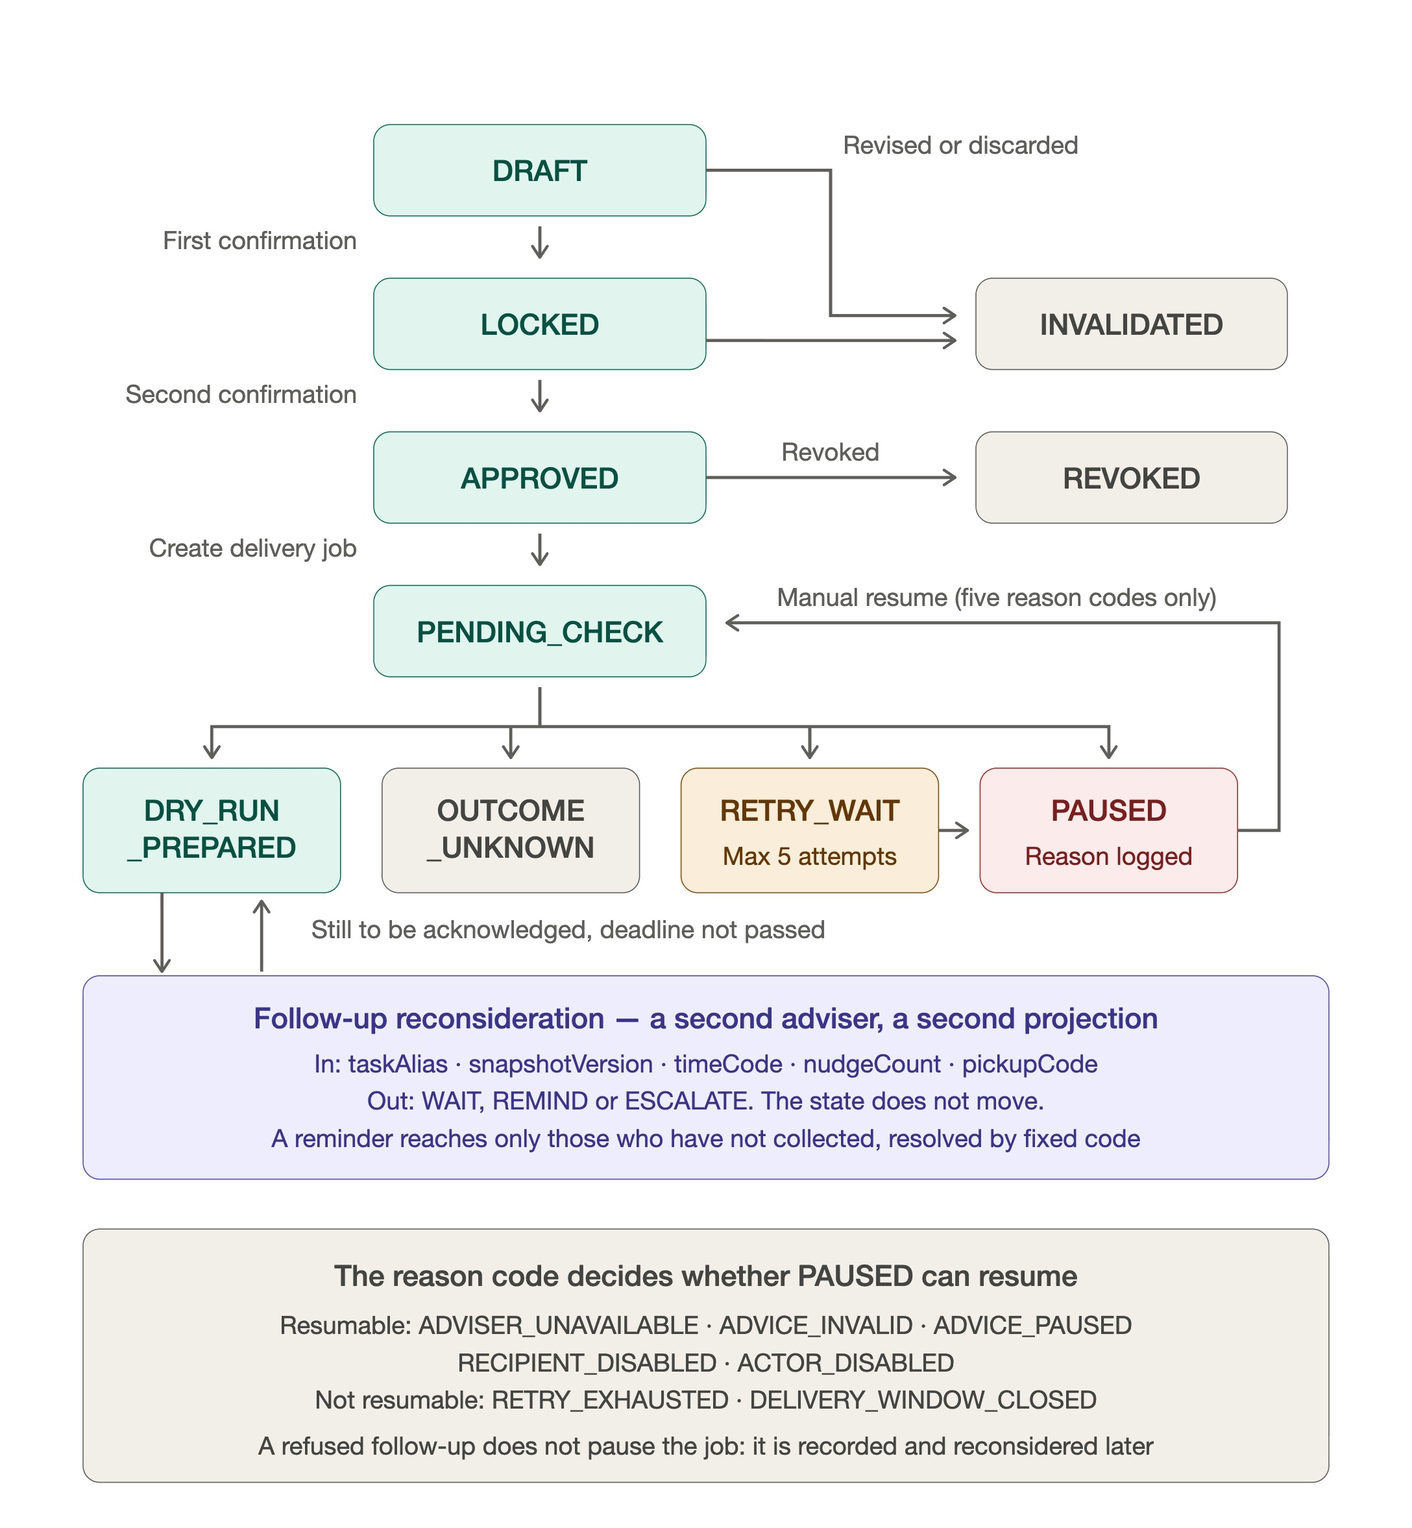
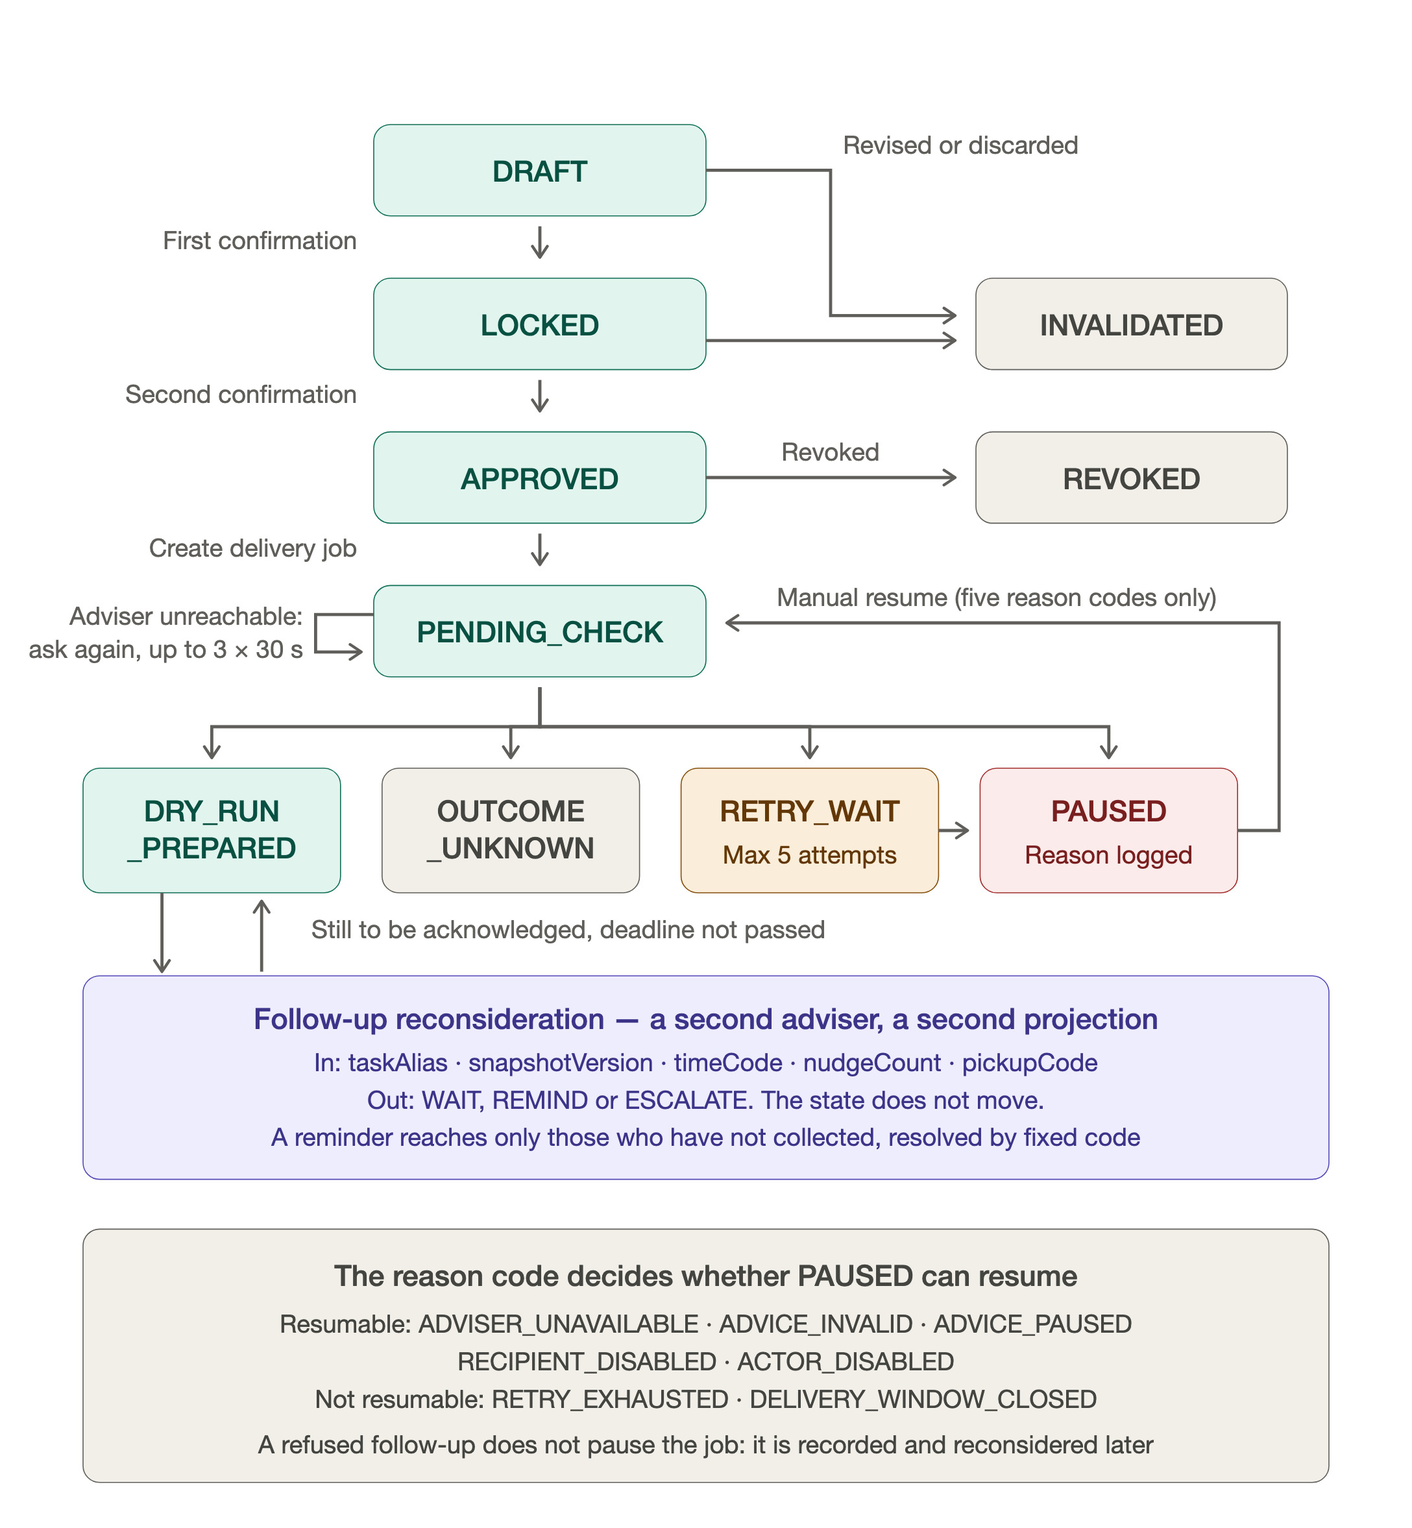
fix: second review pass on adviser retries, trail and recording screens
- follow-up failures back off to the halving cadence after three quick retries
- route and follow-up keep separate halves of the evidence trail
- failures before any request left are not retried; revoke clears a pending retry
- sender sees 'asking again n/3'; a recipient not on the delivery sees no receipt
  error on sign-in; a lapsed hosted sign-in is labelled as such
- preflight checks each page serves its own script; state diagram shows the retry loop

diff --git a/file-worker.js b/file-worker.js
@@ -24,13 +24,19 @@ function deliveryDeadlineFor(snapshot) {
 // untrusted model output, so its content is never stored; only this code's own fixed reason is.
 const TRAIL_LIMIT = 20;
 // An adviser that could not be reached decided nothing, so routing asks again after a pause rather
-// than stopping for a person at the first timeout. The job stays PENDING_CHECK: the adviser's policy
-// only proposes a route for that state. After the last retry it pauses and a person can resume it.
+// than stopping for a person at the first timeout. Only a first routing check (PENDING_CHECK) is
+// retried, and it stays PENDING_CHECK: the adviser's policy only proposes a route for that state; a
+// delivery already waiting on a retry (RETRY_WAIT) pauses as before. After the last retry it pauses
+// and a person can resume it.
 const ADVICE_RETRY_LIMIT = 3;
 const ADVICE_RETRY_MS = 30000;
+const FOLLOWUP_QUICK_RETRIES = 3;
 // Which outlet produced an answer or a failure. A symbol, so it is never read as an answer field
 // and never reaches the validator's key check; only these fixed labels are stored.
 export const ADVICE_SOURCE = Symbol('adviceSource');
+// Set on a failure that happened before any request left (outlet disabled or misconfigured,
+// metadata refused). Asking again cannot change the answer, so it is not retried.
+export const ADVICE_NO_RETRY = Symbol('adviceNoRetry');
 const ADVICE_SOURCES = new Set(['nebius_token_factory', 'local_openai_compatible', 'synthetic_fixture']);
 function recordAdvice(job, kind, input, outcome, now, source) {
   const entry = { kind, input: structuredClone(input), at: new Date(now).toISOString(),
@@ -39,7 +45,12 @@ function recordAdvice(job, kind, input, outcome, now, source) {
   else entry.refusal = { reasonCode: outcome.reasonCode,
     detail: outcome.detail === undefined ? null
       : /^[A-Za-z0-9 _:.-]{1,80}$/.test(String(outcome.detail)) ? String(outcome.detail) : 'UNCLASSIFIED' };
-  job.adviceTrail = [...(job.adviceTrail || []), entry].slice(-TRAIL_LIMIT);
+  // Each kind keeps its own last TRAIL_LIMIT / 2 entries, so a run of follow-up calls cannot push
+  // the routing evidence out of the trail.
+  const trail = [...(job.adviceTrail || []), entry];
+  const keep = new Set(['route', 'followup'].flatMap(name =>
+    trail.filter(item => item.kind === name).slice(-TRAIL_LIMIT / 2)));
+  job.adviceTrail = trail.filter(item => keep.has(item));
 }
 
 export async function advanceFileJobs(original, config, now = Date.now(), advise = syntheticFileAdvice, reloadConfig = async () => config) {
@@ -53,6 +64,7 @@ export async function advanceFileJobs(original, config, now = Date.now(), advise
     if (job.nextAdviceAt && Date.parse(job.nextAdviceAt) > now) continue;
     const previousState = job.status;
     let rejection = 'AUTHORIZATION_INVALID';
+    let retryable = true;
     try {
       let grant = activeGrant(config, task.grantId);
       rejection = 'ACTOR_DISABLED';
@@ -71,6 +83,7 @@ export async function advanceFileJobs(original, config, now = Date.now(), advise
         // An adviser that answered with something the validator refused is invalid advice, not an
         // unavailable adviser; the audit reason should say which one happened.
         if (error?.adviceRejected) rejection = 'ADVICE_INVALID';
+        if (error?.[ADVICE_NO_RETRY]) retryable = false;
         // Only the validator's own refusal text is kept; any other failure may carry foreign text.
         recordAdvice(job, 'route', metadata, { reasonCode: rejection, detail: error?.adviceRejected ? error.message : undefined }, now,
           error?.[ADVICE_SOURCE]);
@@ -120,10 +133,11 @@ export async function advanceFileJobs(original, config, now = Date.now(), advise
           preparedAt: new Date(now).toISOString(), sendsEmail: false };
       }
     } catch {
-      if (rejection === 'ADVISER_UNAVAILABLE' && job.status === 'PENDING_CHECK' &&
+      if (rejection === 'ADVISER_UNAVAILABLE' && retryable && job.status === 'PENDING_CHECK' &&
           (job.adviceRetries || 0) < ADVICE_RETRY_LIMIT) {
         job.adviceRetries = (job.adviceRetries || 0) + 1;
-        job.nextAdviceAt = new Date(now + ADVICE_RETRY_MS).toISOString();
+        // Measured from when the attempt ended, so a slow timeout does not shorten the pause.
+        job.nextAdviceAt = new Date(now + Math.max(0, Date.now() - startedAt) + ADVICE_RETRY_MS).toISOString();
         job.reasonCode = 'ADVISER_UNAVAILABLE';
       } else {
         delete job.nextAdviceAt;
@@ -263,12 +277,19 @@ export async function advanceFollowups(original, config, now = Date.now(), advis
       const span = Number.isFinite(approvedAt) && deadline > approvedAt ? deadline - approvedAt : 0;
       const step = span > 0 ? Math.max(Math.ceil((deadline - now) / 2), Math.ceil(span / 8)) : deadline - now;
       job.nextFollowupAt = new Date(Math.min(now + Math.max(step, 1), deadline)).toISOString();
+      delete job.followupFailures;
     } catch {
       action = null;
       job.followupPausedBy = rejection;
-      // A refusal must not become a hot loop against a failing dependency; it waits out a bucket
-      // like any other outcome.
-      job.nextFollowupAt = new Date(now + 60000).toISOString();
+      // A refusal must not become a hot loop against a failing dependency. The first three wait a
+      // minute each; after that the next try moves to the middle of what is left, the same halving
+      // the normal cadence uses, so a dependency that stays down costs a handful of calls rather
+      // than one a minute until the deadline.
+      job.followupFailures = (job.followupFailures || 0) + 1;
+      const deadline = Date.parse(candidate.content.deliveryDeadline);
+      const wait = job.followupFailures <= FOLLOWUP_QUICK_RETRIES || !Number.isFinite(deadline) ? 60000
+        : Math.max(60000, Math.ceil((deadline - now) / 2));
+      job.nextFollowupAt = new Date(now + wait).toISOString();
     }
     job.revision = (job.revision || 0) + 1;
     job.updatedAt = new Date(now).toISOString();

diff --git a/public/decode.js b/public/decode.js
@@ -32,7 +32,7 @@ function changed() {
   clearVerification();
   clearTimeout(refreshTimer);
   setText(status, 'No decode attempt yet.');
-  refreshTimer = setTimeout(() => { void restoreReceipt(); }, 250);
+  refreshTimer = setTimeout(() => { void restoreReceipt({ automatic: true }); }, 250);
 }
 window.addEventListener('authenticationchange', changed);
 taskId.addEventListener('input', changed);
@@ -73,7 +73,7 @@ async function flushReports(target) {
     if (verifiedDelivery === target) { retryReceipt.disabled = false; setText(status, 'Download requested; receipt unconfirmed'); }
   }
 }
-async function restoreReceipt() {
+async function restoreReceipt({ automatic = false } = {}) {
   if (button.disabled || receiptBusy || verifiedDelivery?.pending?.length) return;
   const id = taskId.value.trim(), number = Number(version.value), generation = identityGeneration;
   if (!/^[a-f0-9-]{36}$/.test(id) || !Number.isSafeInteger(number) || number < 1 || !document.querySelector('#accessToken').value.trim()) return;
@@ -83,6 +83,9 @@ async function restoreReceipt() {
       headers: { 'content-type': 'application/json' }, body: JSON.stringify({ version: number }) });
     const body = await response.json();
     if (generation !== identityGeneration || button.disabled || receiptBusy || verifiedDelivery?.pending?.length) return;
+    // The automatic look-up on sign-in stays quiet for someone this delivery was not approved for:
+    // the refusal belongs to their download attempt, where it is shown and logged as ACCESS DENIED.
+    if (!response.ok && automatic && response.status === 403) return;
     if (!response.ok) throw Error('Receipt status unavailable');
     if (body.acknowledged) {
       clearVerification();
@@ -95,7 +98,7 @@ async function restoreReceipt() {
   } catch { if (generation === identityGeneration) setText(status, 'Receipt status unavailable'); }
   finally { refreshReceipt.disabled = false; }
 }
-refreshReceipt.addEventListener('click', restoreReceipt);
+refreshReceipt.addEventListener('click', () => restoreReceipt());
 retryReceipt.addEventListener('click', () => { if (verifiedDelivery) void flushReports(verifiedDelivery); });
 acknowledge.addEventListener('click', async () => {
   const verified = verifiedDelivery;

diff --git a/server.js b/server.js
@@ -16,7 +16,7 @@ import { resumeFileTask, resumableReasons } from './task-operations.js';
 import { resolvePrivateRoute } from './private-mapping.js';
 import { packetCommitment } from './public/file-envelope.js';
 import { openLocalKeyVault } from './local-key-vault.js';
-import { advanceFileJobs, advanceFollowups, ADVICE_SOURCE } from './file-worker.js';
+import { advanceFileJobs, advanceFollowups, ADVICE_SOURCE, ADVICE_NO_RETRY } from './file-worker.js';
 import { fileRoutingMetadata } from './file-routing.js';
 import { taskEvidence } from './task-evidence.js';
 import { requestFileAdvice } from './file-adviser.js';
@@ -154,6 +154,7 @@ function senderTask(task) {
     revokedAt: snapshot.revokedAt
   })), jobs: task.jobs.map(job => ({ version: job.version, status: job.status, attempts: job.attempts,
     revision: job.revision || 0, reasonCode: job.reasonCode || null, updatedAt: job.updatedAt || null,
+    adviceRetries: job.adviceRetries || 0,
     canRequestResume: Boolean(task.file && job.status === 'PAUSED' && resumableReasons.has(job.reasonCode)),
     ...(task.file ? { receiptSummary: receiptSummary(task, job.version) } : {}) })) };
 }
@@ -1634,8 +1635,9 @@ async function fileAdviser(metadata, kind = 'route') {
     console.error(`ERROR adviser ${kind} ${provider} ${model} ${Math.round(performance.now() - started)}ms ${error.message}`);
     // Only a failure after a request was sent names the outlet; a call refused before any request
     // (outlet disabled, misconfigured, metadata rejected) never reached a model.
-    if (error && typeof error === 'object' && !ADVISER_PRE_REQUEST_FAILURES.has(error.message)) {
-      error[ADVICE_SOURCE] = provider === 'nebius' ? 'nebius_token_factory' : provider;
+    if (error && typeof error === 'object') {
+      if (ADVISER_PRE_REQUEST_FAILURES.has(error.message)) error[ADVICE_NO_RETRY] = true;
+      else error[ADVICE_SOURCE] = provider === 'nebius' ? 'nebius_token_factory' : provider;
     }
     throw error;
   }

diff --git a/public/app.js b/public/app.js
@@ -100,7 +100,10 @@ async function trackDelivery(id, version) {
       const job = body.task.jobs.find(item => item.version === version);
       if (!job) throw new Error('Delivery status unavailable');
       setJson(result, { taskId: id, version, status: job.status, attempts: job.attempts || 0 });
-      setText(deliveryStatus, () => t(job.status) + (job.reasonCode ? ' | ' + t(job.reasonCode) : ''));
+      // While routing waits to ask an unreachable adviser again, say so and how far along it is.
+      const retrying = job.status === 'PENDING_CHECK' && job.reasonCode === 'ADVISER_UNAVAILABLE' && job.adviceRetries > 0;
+      setText(deliveryStatus, () => retrying ? `${t('Adviser not answering; asking again')} ${job.adviceRetries}/3`
+        : t(job.status) + (job.reasonCode ? ' | ' + t(job.reasonCode) : ''));
       if (job.receiptSummary) {
         const summary = job.receiptSummary;
         setText(receiptView, () => `${t('Recipients')}: ${summary.recipientCount} | ${t('Key recipients')}: ${summary.keyRecipientCount} | ${t('Client download reports')}: ${summary.downloadReportCount} | ${t('Acknowledged recipients')}: ${summary.acknowledgedCount || 0} | ${t(summary.downloadWindowState || '')} | ${t(summary.receiptState || '')} | ${t(summary.deliveryState || '')} | ${t('Not proof of reading')}`);

diff --git a/public/auth.js b/public/auth.js
@@ -71,7 +71,10 @@ window.addEventListener('authenticationchange', () => {
     let result = null;
     try {
       const response = await authenticatedFetch('/api/whoami');
-      result = response.ok ? await response.json() : { denied: response.status === 401 };
+      // The hosted sign-in answers 401 too once its session lapses; that is not a verdict on the token.
+      const body = response.ok ? await response.json() : await response.json().catch(() => ({}));
+      result = response.ok ? body : body.error === 'Demo sign-in required' ? { gate: true }
+        : { denied: response.status === 401 };
     } catch { result = null; }
     if (current !== identityCheck) return;
     identity.hidden = false;
@@ -80,7 +83,8 @@ window.addEventListener('authenticationchange', () => {
       setText(identity, () => `${t('IDENTITY VERIFIED')} · ${t(roles[result.kind] || 'Unknown role')}`);
     } else {
       identity.className = 'identity-badge rejected';
-      setText(identity, result?.denied ? 'IDENTITY NOT VERIFIED' : 'Identity check unavailable');
+      setText(identity, result?.gate ? 'Demo sign-in expired; reload the page to sign in again'
+        : result?.denied ? 'IDENTITY NOT VERIFIED' : 'Identity check unavailable');
     }
   }, 250);
 });

diff --git a/public/i18n.js b/public/i18n.js
@@ -172,7 +172,7 @@ export const labels = {
   'Local model outlet configured; successful model call not verified': '已設定本機模型出口；尚未驗證成功呼叫',
   'Token Factory budget spent; local simulation, no real model call': 'Token Factory 預算已用完；本機模擬，未呼叫真實模型',
   'No model is called in this mode': '此模式不呼叫模型',
-  'Request failed': '請求未完成', 'Invalid receipt response': '回執回應格式不符',
+  'Request failed': '請求未完成', INVALID_FILE_ENVELOPE: '檔案封裝格式不符', 'Adviser not answering; asking again': '顧問模型暫未回應，稍後自動再問', 'Demo sign-in expired; reload the page to sign in again': '評審登入已逾時，請重新整理頁面再登入', 'Invalid receipt response': '回執回應格式不符',
   'IDENTITY VERIFIED': '身分已驗證', 'IDENTITY NOT VERIFIED': '身分未通過驗證', 'Identity check unavailable': '暫時無法確認身分',
   'Sender': '發文者', 'Recipient': '收件人', 'Coordinator': '協調者', 'Administrator': '管理員', 'Unknown role': '未知角色',
   'ACCESS APPROVED': '存取已核准', 'ACCESS DENIED': '存取被拒',

diff --git a/file-adviser.js b/file-adviser.js
@@ -84,7 +84,7 @@ export const ADVISER_PROVIDERS = {
     // off: 165 to 811 reasoning tokens and 7 to 27 seconds. `reasoning_effort: 'none'` is what this runtime honours (0 reasoning
     // tokens); `chat_template_kwargs` and a /no_think prompt still do nothing. Without reasoning,
     // temperature 1 let the 4B pick a reason the lookup table rules out in 3 of 18 calls, which the
-    // validator refused; greedy decoding gave 30 of 30 accepted at 2.4 to 2.6 seconds.
+    // validator refused; greedy decoding gave 30 of 30 accepted at 2.3 to 2.6 seconds.
     shape: (metadata, kind) => ({
       response_format: { type: 'json_schema', json_schema: { name: 'adviser_output', strict: true, schema: kind.schema } },
       reasoning_effort: 'none',

diff --git a/snapshot-lifecycle.js b/snapshot-lifecycle.js
@@ -114,7 +114,15 @@ export function revokeSnapshot(original, actor, number, now = Date.now()) {
   const snapshot = version(task, number);
   snapshot.revokedAt ||= new Date(now).toISOString();
   snapshot.submissionHash = null;
-  for (const job of task.jobs) if (job.version === number) job.status = 'REVOKED';
+  for (const job of task.jobs) {
+    if (job.version !== number) continue;
+    job.status = 'REVOKED';
+    // A pending adviser retry ends with the revocation; leaving it would label a revoked delivery
+    // as waiting on the adviser.
+    delete job.nextAdviceAt;
+    delete job.adviceRetries;
+    if (job.reasonCode === 'ADVISER_UNAVAILABLE') job.reasonCode = null;
+  }
   return task;
 }
 

diff --git a/docs/agent/security-gate-summary.md b/docs/agent/security-gate-summary.md
@@ -55,7 +55,7 @@ No tests, canaries or scanner rules were removed to reduce counts. Genuine prote
 
 ## Functional Evidence
 
-The corrected clean candidate passed npm run check and all npm tests (49 at the time of that candidate; 114 on 2026-09-25, thirty consecutive runs, after the loopback outlet, the 2026-09-18 regression locks, the delivery follow-up contract, the judge sign-in, the spending cap, the hosted lock fix, the refused-advice classification, the evidence chain, the local reasoning switch and the 2026-09-25 review fixes) using fresh temporary stores, with no provider calls or mail. The earlier missing-module failure is preserved in private history. Separate Chromium acceptance passed CSV, procurement DOCX and audit PDF flows: sender/recipient credential import, department/subset selection, private mapping, double confirmation, unauthorized recipient denial, exact-byte download and acknowledgement. Administrator mutation/rotation and desktop/mobile checks also passed. Synthetic fixtures were regenerated from shipped source; external browser requests were blocked.
+The corrected clean candidate passed npm run check and all npm tests (49 at the time of that candidate; 115 on 2026-09-25, thirty consecutive runs, after the loopback outlet, the 2026-09-18 regression locks, the delivery follow-up contract, the judge sign-in, the spending cap, the hosted lock fix, the refused-advice classification, the evidence chain, the local reasoning switch and the 2026-09-25 review fixes) using fresh temporary stores, with no provider calls or mail. The earlier missing-module failure is preserved in private history. Separate Chromium acceptance passed CSV, procurement DOCX and audit PDF flows: sender/recipient credential import, department/subset selection, private mapping, double confirmation, unauthorized recipient denial, exact-byte download and acknowledgement. Administrator mutation/rotation and desktop/mobile checks also passed. Synthetic fixtures were regenerated from shipped source; external browser requests were blocked.
 
 ## Publication Boundary
 

diff --git a/README.md b/README.md
@@ -137,7 +137,7 @@ into `reasoning_content` while `content` is left empty. A client reading only `c
 empty success. None of these results prove superiority to deterministic routing, general injection
 resistance, or compatibility with an untested local runtime.
 
-Version 2026-09-25. Test evidence at this revision: 114 of 114, thirty consecutive runs.
+Version 2026-09-25. Test evidence at this revision: 115 of 115, thirty consecutive runs.
 
 ## Architecture
 
@@ -160,6 +160,8 @@ exchange, the decryption, and the reporting in between.
 **What a task can do next.** Ten states and the reason codes that decide whether a paused job may
 resume. `RETRY_EXHAUSTED` and `DELIVERY_WINDOW_CLOSED` both stop a job, for different reasons: the
 first has spent its attempts, the second still has attempts but the download window closed first.
+An adviser that cannot be reached decided nothing, so a first routing check stays in
+`PENDING_CHECK` and asks again, up to three times 30 seconds apart, before it pauses for a person.
 
 ![Task state machine](docs/assets/architecture-state-machine.svg)
 

diff --git a/SECURITY_SCAN_EVIDENCE.md b/SECURITY_SCAN_EVIDENCE.md
@@ -72,6 +72,14 @@ fully collected delivery past its follow-up time made no model call, and the sam
 its receipts removed was asked as before. Scanner results unchanged. Tests: 114/114, thirty
 consecutive runs.
 
+A second review pass followed: follow-up calls that keep failing back off to the halving cadence
+after three one-minute retries; route and follow-up entries keep separate halves of the evidence
+trail; a failure raised before any request left is not retried; revoking a delivery clears a
+pending adviser retry; the sender sees "asking again n/3"; a recipient not on the delivery sees no
+receipt error on sign-in, only the refusal on download; a lapsed hosted sign-in is labelled as such
+rather than as an unverified identity. Scanner results unchanged. Tests: 115/115, thirty
+consecutive runs.
+
 ## Delivery Follow-Up Addition, 2026-09-18
 
 Scanned candidate: 102 files, the tracked tree plus the delivery follow-up module, its two test

diff --git a/SUBMISSION_GAP_CHECK.md b/SUBMISSION_GAP_CHECK.md
@@ -10,7 +10,7 @@ Local self-checks against the 116-file candidate built from `public-export-manif
 export-gate:      pass, blocking 0, P0 0, P1 0, P2 0, critical 0, high 7, medium 89
 release-boundary: PASS, findings 0
 localguard:       87 findings, 3 CRITICAL / 15 HIGH / 62 MEDIUM / 7 LOW
-npm test:         114 of 114, thirty consecutive runs
+npm test:         115 of 115, thirty consecutive runs
 preflight:hosted: 7 of 8, 0 blocking, 1 advisory
 fuzz:             40,000 projections, 2,400 worker ticks, 0 invariant violations (2026-09-18)
 ```
